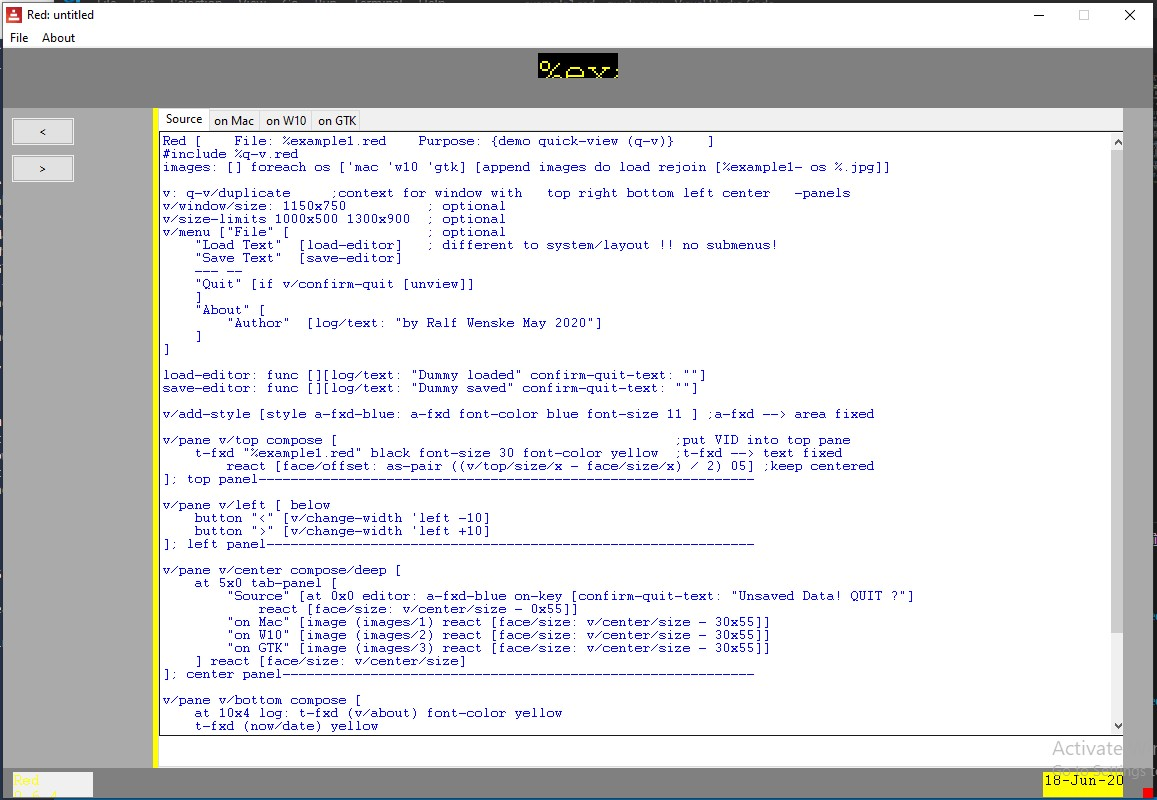
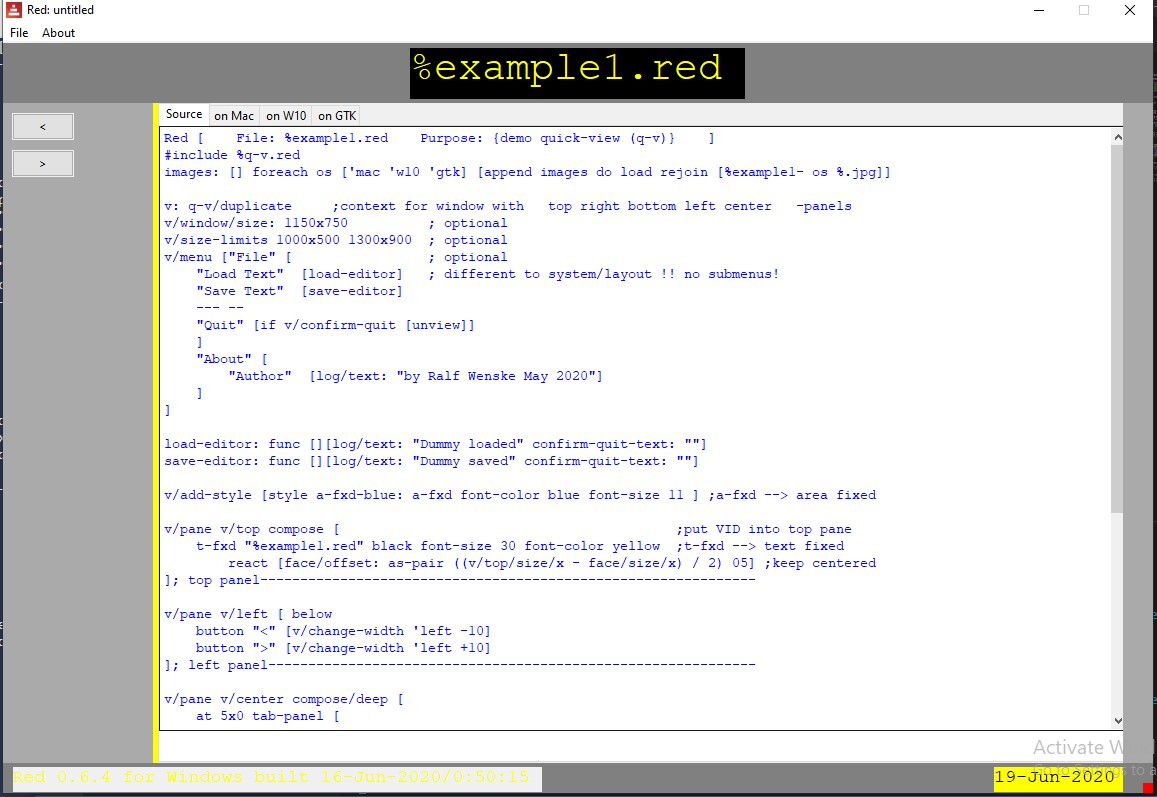
Changed 'Courier' to 'Courier New'
Updated README

Changed region(s): [[0.0, 0.0, 1.0, 1.0], [0.9334, 0.6324, 1.0, 0.7829], [0.5912, 0.3011, 0.6534, 0.3614]]

diff --git a/README.md b/README.md
@@ -49,8 +49,8 @@ view/flags v/window 'resize
 
 %example1.red shows how to place VID code into the panels 
 and show how user interaction can be coded
-Here the MacOS version:
-![alt default view](example1-mac.jpg) 
+Here the Windows 10 version:
+![alt default view](example1-w10.jpg) 
 
 
 NOTE:
@@ -59,8 +59,6 @@ NOTE:
 
     The `area` face when resizing behaves differently on each platform.
 
-    The `text` face on Windows misbehaves.
-
-    Font size seems different on Windows. (Font is "Courier")
+    The `text` face on Windows without bg-color is not transparent.
 
     On GTK when a menu is shown the viewable size is not adjusted.
